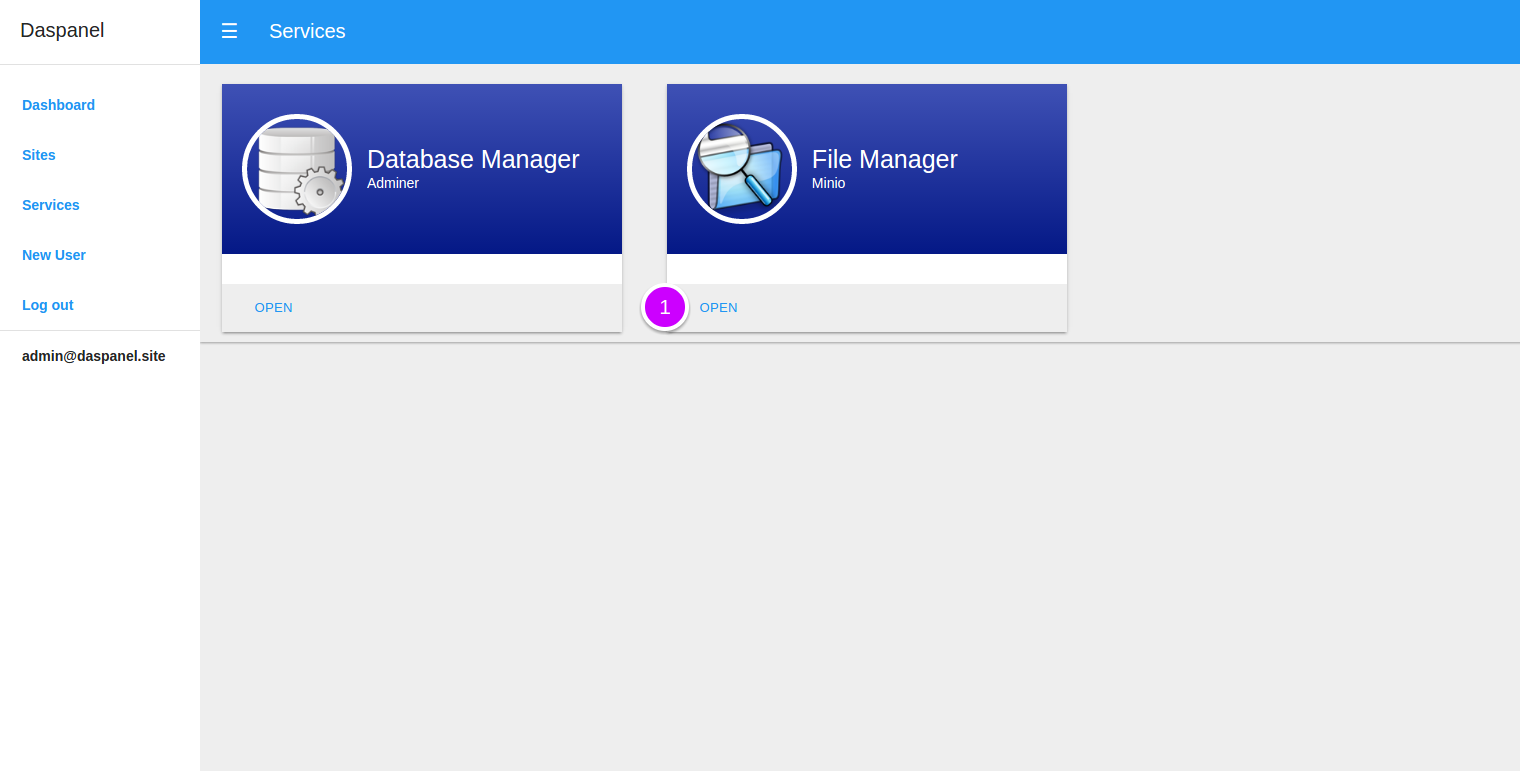
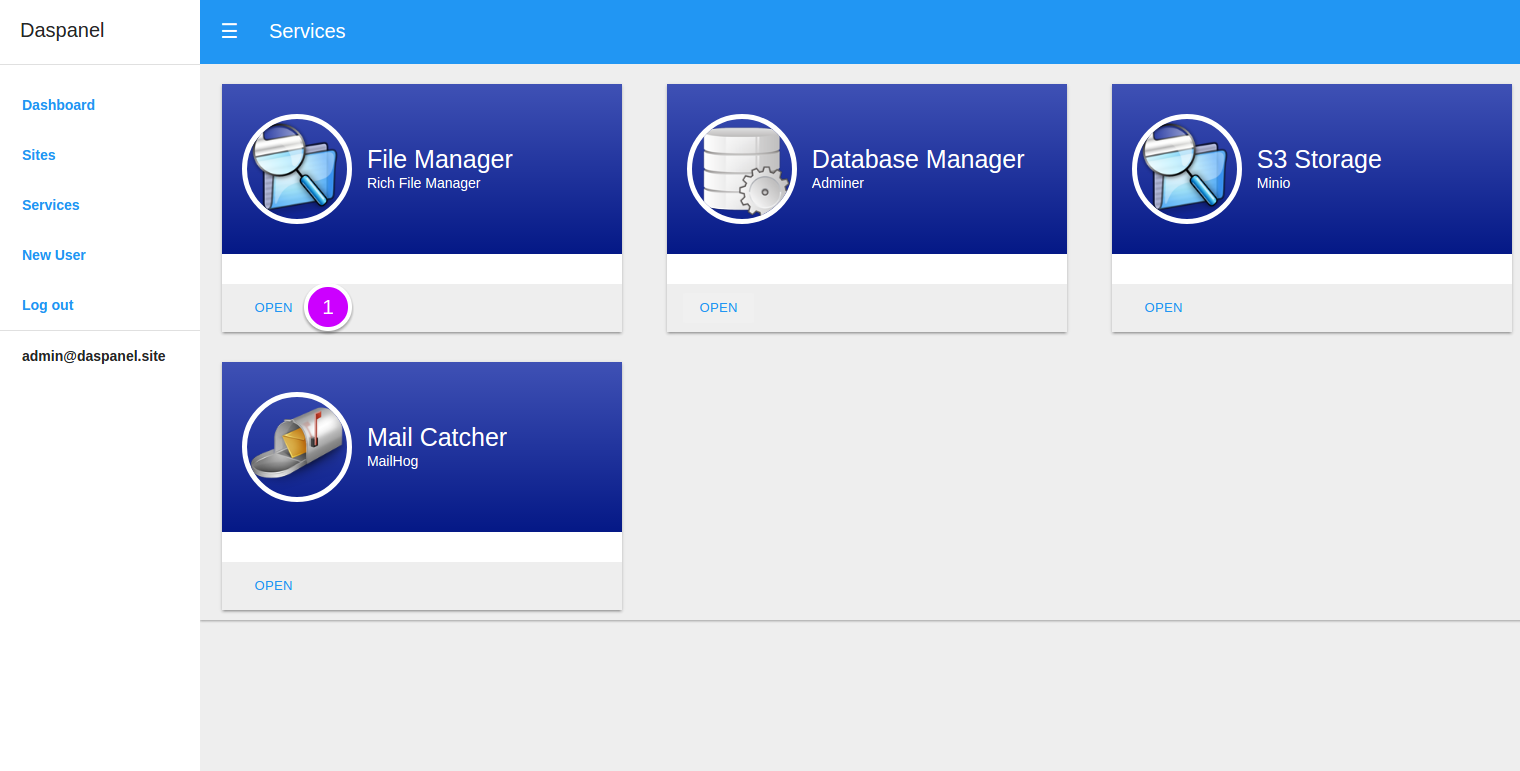
Docs update.

diff --git a/docs/help/install/linux.md b/docs/help/install/linux.md
@@ -13,7 +13,7 @@ More information on how to install them can be found on these pages:
 
 ### Get installation files
 
-Go to <a href="http://daspanel.com" target="_blank">Daspanel site</a> Click in the 
+Go to <a href="https://daspanel.com" target="_blank">Daspanel site</a> Click in the 
 *INSTALL* link and fill the result form like this:
 
 [![Daspanel form](img/daspanelcom-form.png)](img/daspanelcom-form.png)
@@ -33,6 +33,24 @@ Within the directory where the `daspanel.env` and `docker-compose.yml` files are
 ``` shell
 docker-compose up -d
 ```
+
+After the above command finishes check if the Daspanel is working by clicking 
+on this link: 
+
+[https://admin.daspanel.site](https://admin.daspanel.site)
+
+You will have to see something like this:
+
+[![Daspanel login](img/daspanel-login.png)](img/daspanel-login.png)
+
+!!! warning ""
+    If you modified the `DASPANEL_SYS_HOST` to an address other than `daspanel.site`, 
+    `mydomain.com` for example, the control panel URL will be 
+    https://admin.mydomain.com
+
+If you did not configured your own password in the `daspanel.env` file, see the 
+[Login credentials](/help/install/linux/#login-credentials) section on how to find out the password 
+to be used to login to the control panel.
 
 ## Manual installation
 
@@ -120,7 +138,7 @@ docker-compose up -d
 After the above command finishes check if the Daspanel is working by clicking 
 on this link: 
 
-[http://admin.daspanel.site](http://admin.daspanel.site)
+[https://admin.daspanel.site](https://admin.daspanel.site)
 
 You will have to see something like this:
 
@@ -129,7 +147,7 @@ You will have to see something like this:
 !!! warning ""
     If you modified the `DASPANEL_SYS_HOST` to an address other than `daspanel.site`, 
     `mydomain.com` for example, the control panel URL will be 
-    http://admin.mydomain.com
+    https://admin.mydomain.com
 
 If you did not configured your own password in the `daspanel.env` file, see the 
 [Login credentials](/help/install/linux/#login-credentials) section on how to find out the password 
@@ -143,16 +161,26 @@ sites that use external SMTP servers.
 
 To view these emails as well as system notifications, go to this URL:
 
-[http://mail.svc.daspanel.site](http://mail.svc.daspanel.site)
+[https://mail.svc.daspanel.site](https://mail.svc.daspanel.site)
 
 !!! warning ""
     If you modified the `DASPANEL_SYS_HOST` to an address other than `daspanel.site`, 
     `mydomain.com` for example, the URL will be 
-    http://mail.svc.mydomain.com
+    https://mail.svc.mydomain.com
 
-Use *admin@daspanel.site* as user login unless you have changed the 
-*DASPANEL_SYS_ADMIN* and/or *DASPANEL_SYS_HOST* variables in the `daspanel.env` 
-file. The password will always be the same as the *DASPANEL_SYS_UUID* value.
+A new window will open in your browser to enter the login data on the mail catcher. 
+
+[![Daspanel mailatcher login](img/mailcatcher-login.png)](img/mailcatcher-login.png)
+
+1. **User Name**: Is the admin email
+2. **Password**: Is the UUID of your Daspanel.
+3. Click the login in button.
+
+!!! tip "Login credentials"
+    * If you have not configured the *DASPANEL_SYS_ADMIN* variable in the 
+    daspanel.env file the admin email is admin@daspanel.site.
+    * Or, if you have set the *DASPANEL_SYS_HOSTNAME* but not the *DASPANEL_SYS_ADMIN* it will be '*admin*' + '@' + the value of *DASPANEL_SYS_HOSTNAME*.
+    * The UUID is the value of variable *DASPANEL_SYS_UUID* in the same file.
 
 After logging in, a screen like the one below will be displayed:
 
@@ -163,6 +191,10 @@ DASPANEL notification will be here. **IMPORTANT:** these messages are stored in
 memory, when the containers stop they disappear.
 
 ### Login credentials
+
+Before you get the login credentials you must be logged in to the mail catcher 
+service. Do this by clicking 
+[here](/help/install/linux/#emails-notifications) if you have not already done so.
 
 Click on the most recent message with the subject `DASPANEL instance c...` and in it 
 you will find all the necessary information to access the control panel.

diff --git a/docs/help/services/mailcatcher.md b/docs/help/services/mailcatcher.md
@@ -1,0 +1,83 @@
+# Mail Catcher
+
+As a design option Daspanel does not come with an outgoing mail (SMTP) server 
+service. We made this choice because of the complexity of maintaining and 
+managing a service of this type that is far beyond the responsibilities of a 
+site developer.
+
+If the site you are hosting at Daspanel needs to send emails to the world we 
+recommend that you use a professional external service such as 
+<b><a href="https://www.mailgun.com/" target="_blank">Mailgun</a></b> that 
+offers a free sending limit of 10,000 emails / month. You can also use your 
+email account provider, such as Gmail for example.
+
+However, if your site attempts to send an email without using an external 
+service, using the PHP mail () command for example, the message will be 
+captured by Daspanel using the Mail Catcher service and will not be sent to the 
+recipient, no matter what email address you use.
+
+This is useful for:
+
+* Test the sending of emails during the development of the site.
+* Discover site modules that try to send email without using an external service.
+* Receive Daspanel notifications without the need to set up an external e-mail 
+sending account.
+
+For this service the chosen tool is the <b><a href="https://github.com/mailhog/MailHog" target="_blank">MailHog</a></b>.
+
+## Accessing it
+
+In the control panel click the services menu
+
+[![Daspanel services menu](/img/services-menu.png)](/img/services-menu.png)
+
+On the next screen where all avaiable services are listed.
+
+[![Daspanel services mailcatcher](img/open-mail-catcher.png)](img/open-mail-catcher.png)
+
+1. Click this buttom to open the mail catcher service.
+
+!!! tip ""
+    You can directly access the Mail Catcher by opening the url 
+    <b><a href="https://mail.svc.daspanel.site" target="_blank">mail.svc.daspanel.site</a></b>
+    in your browser.
+
+!!! warning ""
+    If you modified the `DASPANEL_SYS_HOST` to an address other than `daspanel.site`, 
+    `mydomain.com` for example, the control panel URL will be 
+    https://mail.svc.mydomain.com
+
+A new window will open in your browser to enter the login data on the mail catcher. 
+
+[![Daspanel mailatcher login](img/mailcatcher-login.png)](img/mailcatcher-login.png)
+
+1. **User Name**: Is the admin email
+2. **Password**: Is the UUID of your Daspanel.
+3. Click the login in button.
+
+!!! tip "Login credentials"
+    * If you have not configured the *DASPANEL_SYS_ADMIN* variable in the 
+    daspanel.env file the admin email is admin@daspanel.site.
+    * Or, if you have set the *DASPANEL_SYS_HOSTNAME* but not the *DASPANEL_SYS_ADMIN* it will be '*admin*' + '@' + the value of *DASPANEL_SYS_HOSTNAME*.
+    * The UUID is the value of variable *DASPANEL_SYS_UUID* in the same file.
+
+## Mail catcher interface
+
+After logging into the mail catcher you will see a standard webmail interface, 
+as below:
+
+[![Daspanel mailcatcher inbox](img/mailcatcher-inbox.png)](img/mailcatcher-inbox.png)
+
+!!! warning ""
+    Every email sent by your sites that does not use an external SMTP server, or any 
+    DASPANEL notification will be here. **IMPORTANT:** these messages are stored in 
+    memory, when the containers stop they disappear.
+
+### Instance info email
+
+Click on the most recent message with the subject `DASPANEL instance c...` and in it 
+you will find all the necessary information about how to access the various 
+control panel services:
+
+[![Daspanel mailcatcher info](img/mailcatcher-access-info.png)](img/mailcatcher-access-info.png)
+

diff --git a/docs/help/services/s3storage.md b/docs/help/services/s3storage.md
@@ -1,0 +1,67 @@
+# S3 Storage
+
+Every hosting control panel needs a way to manage their files and minimally do some 
+file operations like upload, download, delete, etc. We choose not to use FTP but use a 
+more modern solution that is a de facto industry standard. The solution we chose 
+was to use the S3 protocol that was created by Amazon and became a standard. 
+It is secure, stable, standardized and with numerous tools available to access it.
+
+For this service the chosen tool is the <b><a href="https://minio.io/" target="_blank">Minio</a></b>.
+
+## Accessing it
+
+In the control panel click the services menu
+
+[![Daspanel services menu](/img/services-menu.png)](/img/services-menu.png)
+
+On the next screen where all avaiable services are listed.
+
+[![Daspanel services filemanager](img/open-s3-storage.png)](img/open-s3-storage.png)
+
+1. Click this buttom to open the file manager service.
+
+!!! tip ""
+    You can directly access the file manager by opening the url 
+    <b><a href="http://s3.svc.daspanel.site" target="_blank">s3.svc.daspanel.site</a></b>
+    in your browser.
+
+A new window will open in your browser to enter the login data on the file manager. 
+
+[![Daspanel filemanager login](img/filemanager-login.png)](img/filemanager-login.png)
+
+1. **Access Key**: First 20 characters of the UUID of your Daspanel
+2. **Secrect key**: Is the same password of the Daspanel admin.
+3. Click the login button.
+
+!!! tip "Login credentials"
+    You can easily obtain login credentials in the *** S3 CONFIG *** section of 
+    the Daspanel startup notification message using the link below:
+    <p align="center">
+        <b><a href="http://mail.svc.daspanel.site" target="_blank">mail.svc.daspanel.site</a></b><br>
+    </p>
+
+## Where are the files of a website?
+
+Each site you create has a unique universal ID, as well as each version of it. 
+For each site there is at least one version. And each site has its active version, 
+the version that will be displayed by default when accessing it.
+
+To find out where the active files of the site are, just look at the screen below 
+the field **Active Directory**:
+
+[![Daspanel filemanager sitedir](img/filemanager-sitedir.png)](img/filemanager-sitedir.png)
+
+After you have logged into the file manager go to the location of the site files 
+and make the modifications you want.
+
+[![Daspanel filemanager site](img/filemanager-sitefiles.png)](img/filemanager-site.png)
+
+Where:
+
+1. Is the UUID of the bucket holding all files of your Daspanel installation
+2. Is the UUID of the site
+3. Is the version you are editing
+
+And every arrow points to context menus avaiable to do file manager operations.
+
+
